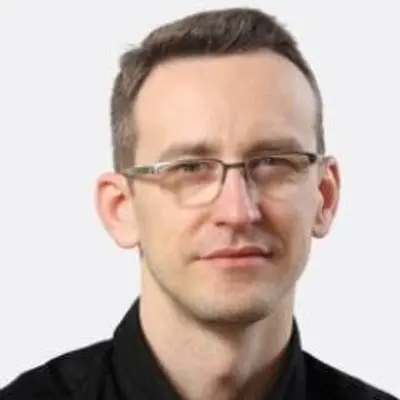
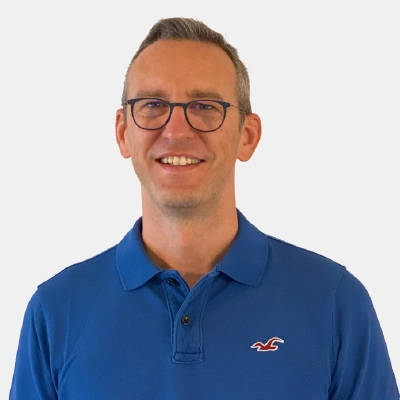
Merge pull request #67: Copilot monthly call + Rabia
Copilot monthly call + Rabia

Pull request: Copilot monthly call + Rabia

diff --git a/content/events/copilot-extensibility.md b/content/events/copilot-extensibility.md
@@ -1,0 +1,11 @@
+---
+title: "Copilot Extensibility Monthly Call"
+presenter: "Presented by Microsoft"
+occurrence: "Second Wednesday of every month"
+time: "8:00 AM PT / 4:00 PM GMT"
+joinUrl: "https://aka.ms/community/CopilotExtensibility-call-join"
+inviteUrl: "https://aka.ms/community/CopilotExtensibility-call-invite"
+youtubeUrl: "https://www.youtube.com/playlist?list=PLR9nK3mnD-OWvoIQ01EuzFCJU9r6V_ML3"
+weight: 47
[1 lines of base64/hex data omitted]
+---